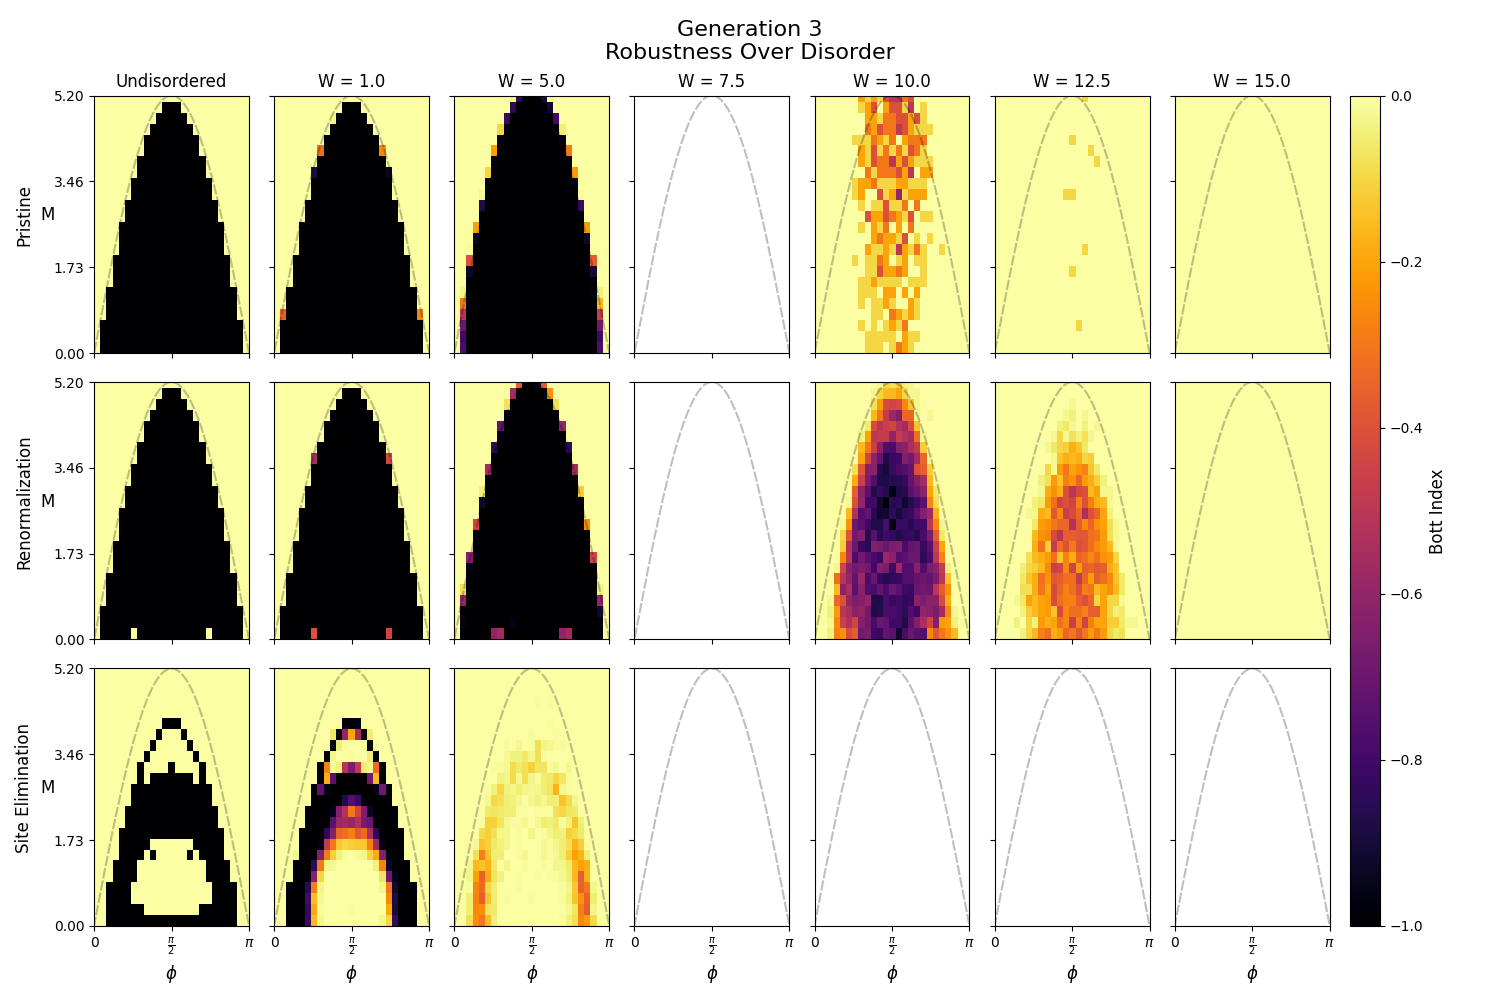
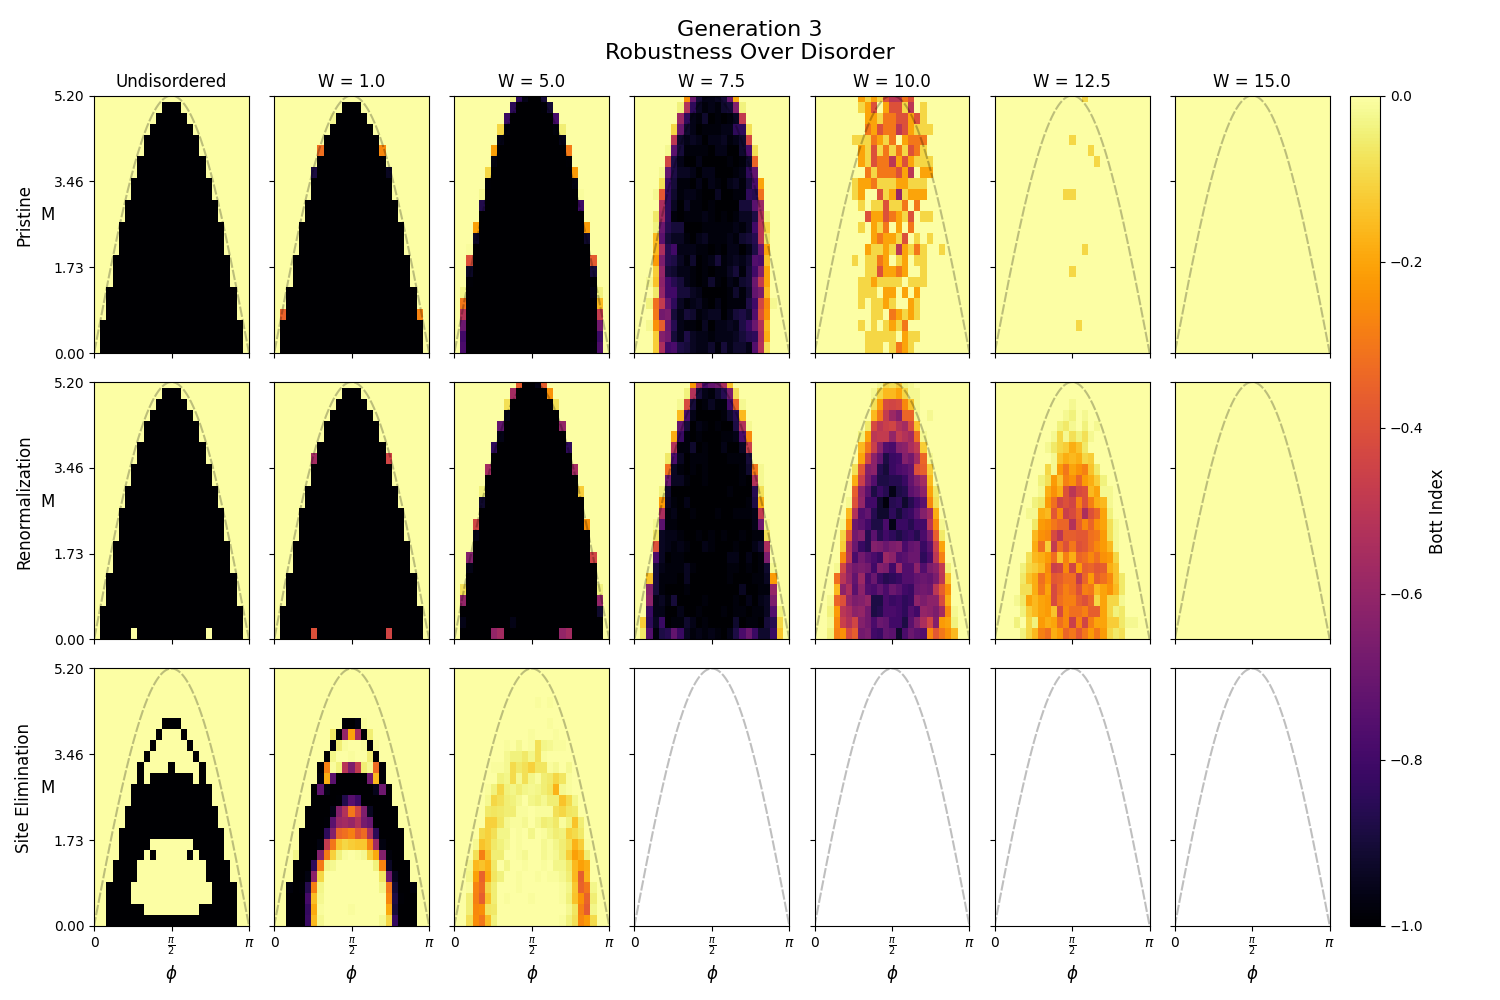
haldane g3 disorder computation

Changed region(s): [[0.3987, 0.093, 0.552, 0.651]]

diff --git a/Hexaflake/disorder_haldane.py b/Hexaflake/disorder_haldane.py
@@ -471,7 +471,7 @@ def compare_generations():
 
 
 def main():
-	compute_these_disorder_strengths = [7.5]
+	compute_these_disorder_strengths = []
 	plot_these_disorder_strengths = [1.0, 5.0, 7.5, 10.0, 12.5, 15.0]
 	methods = ['renorm']
 	titles = ['Pristine', 'Renormalization', 'Site Elimination']
